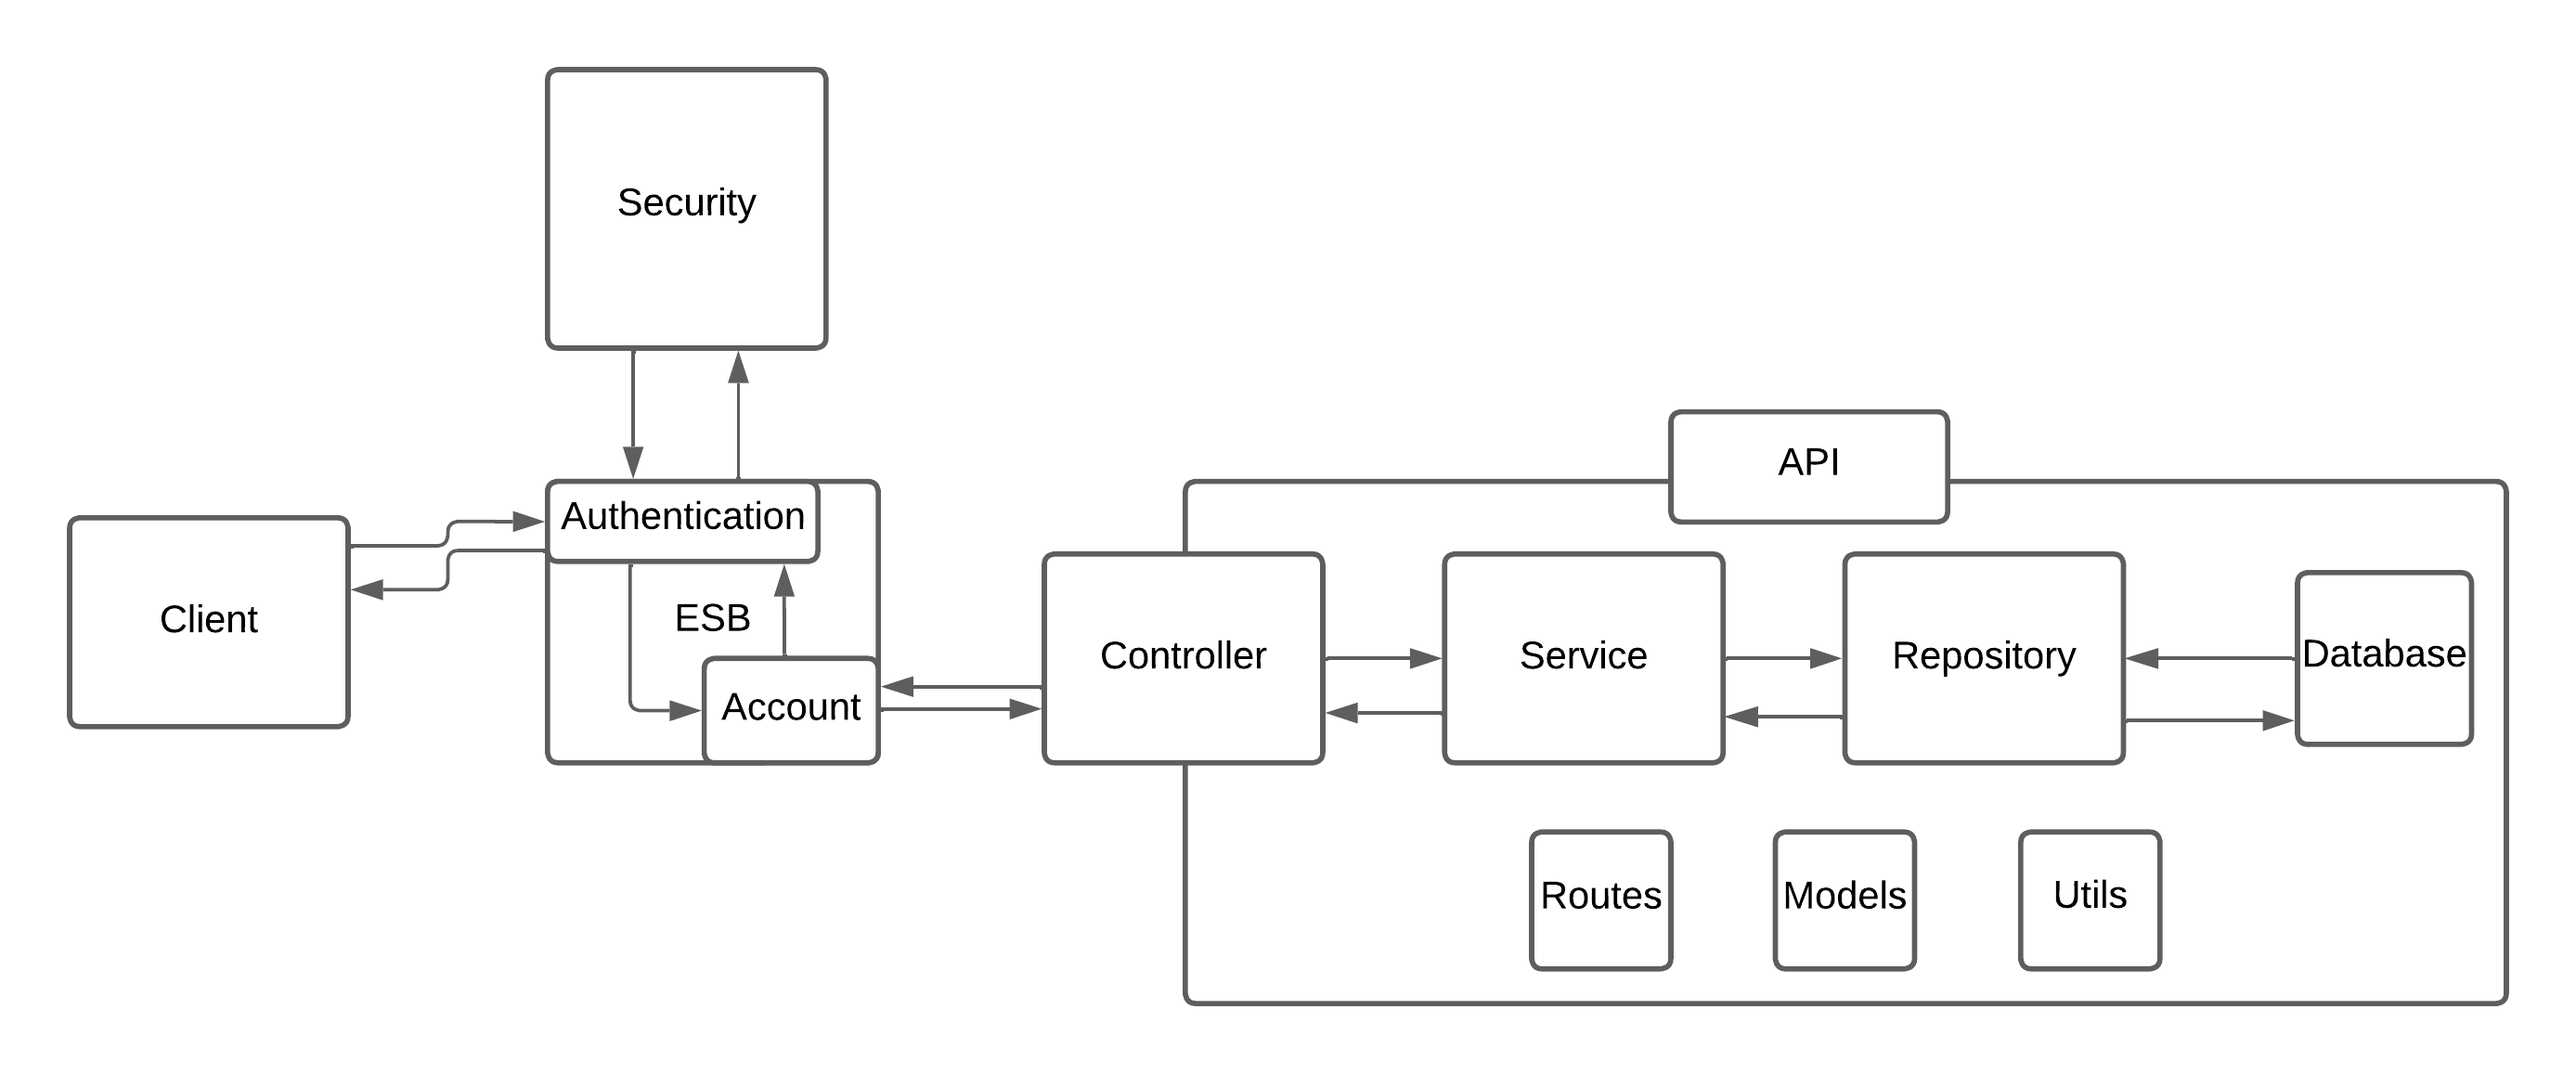
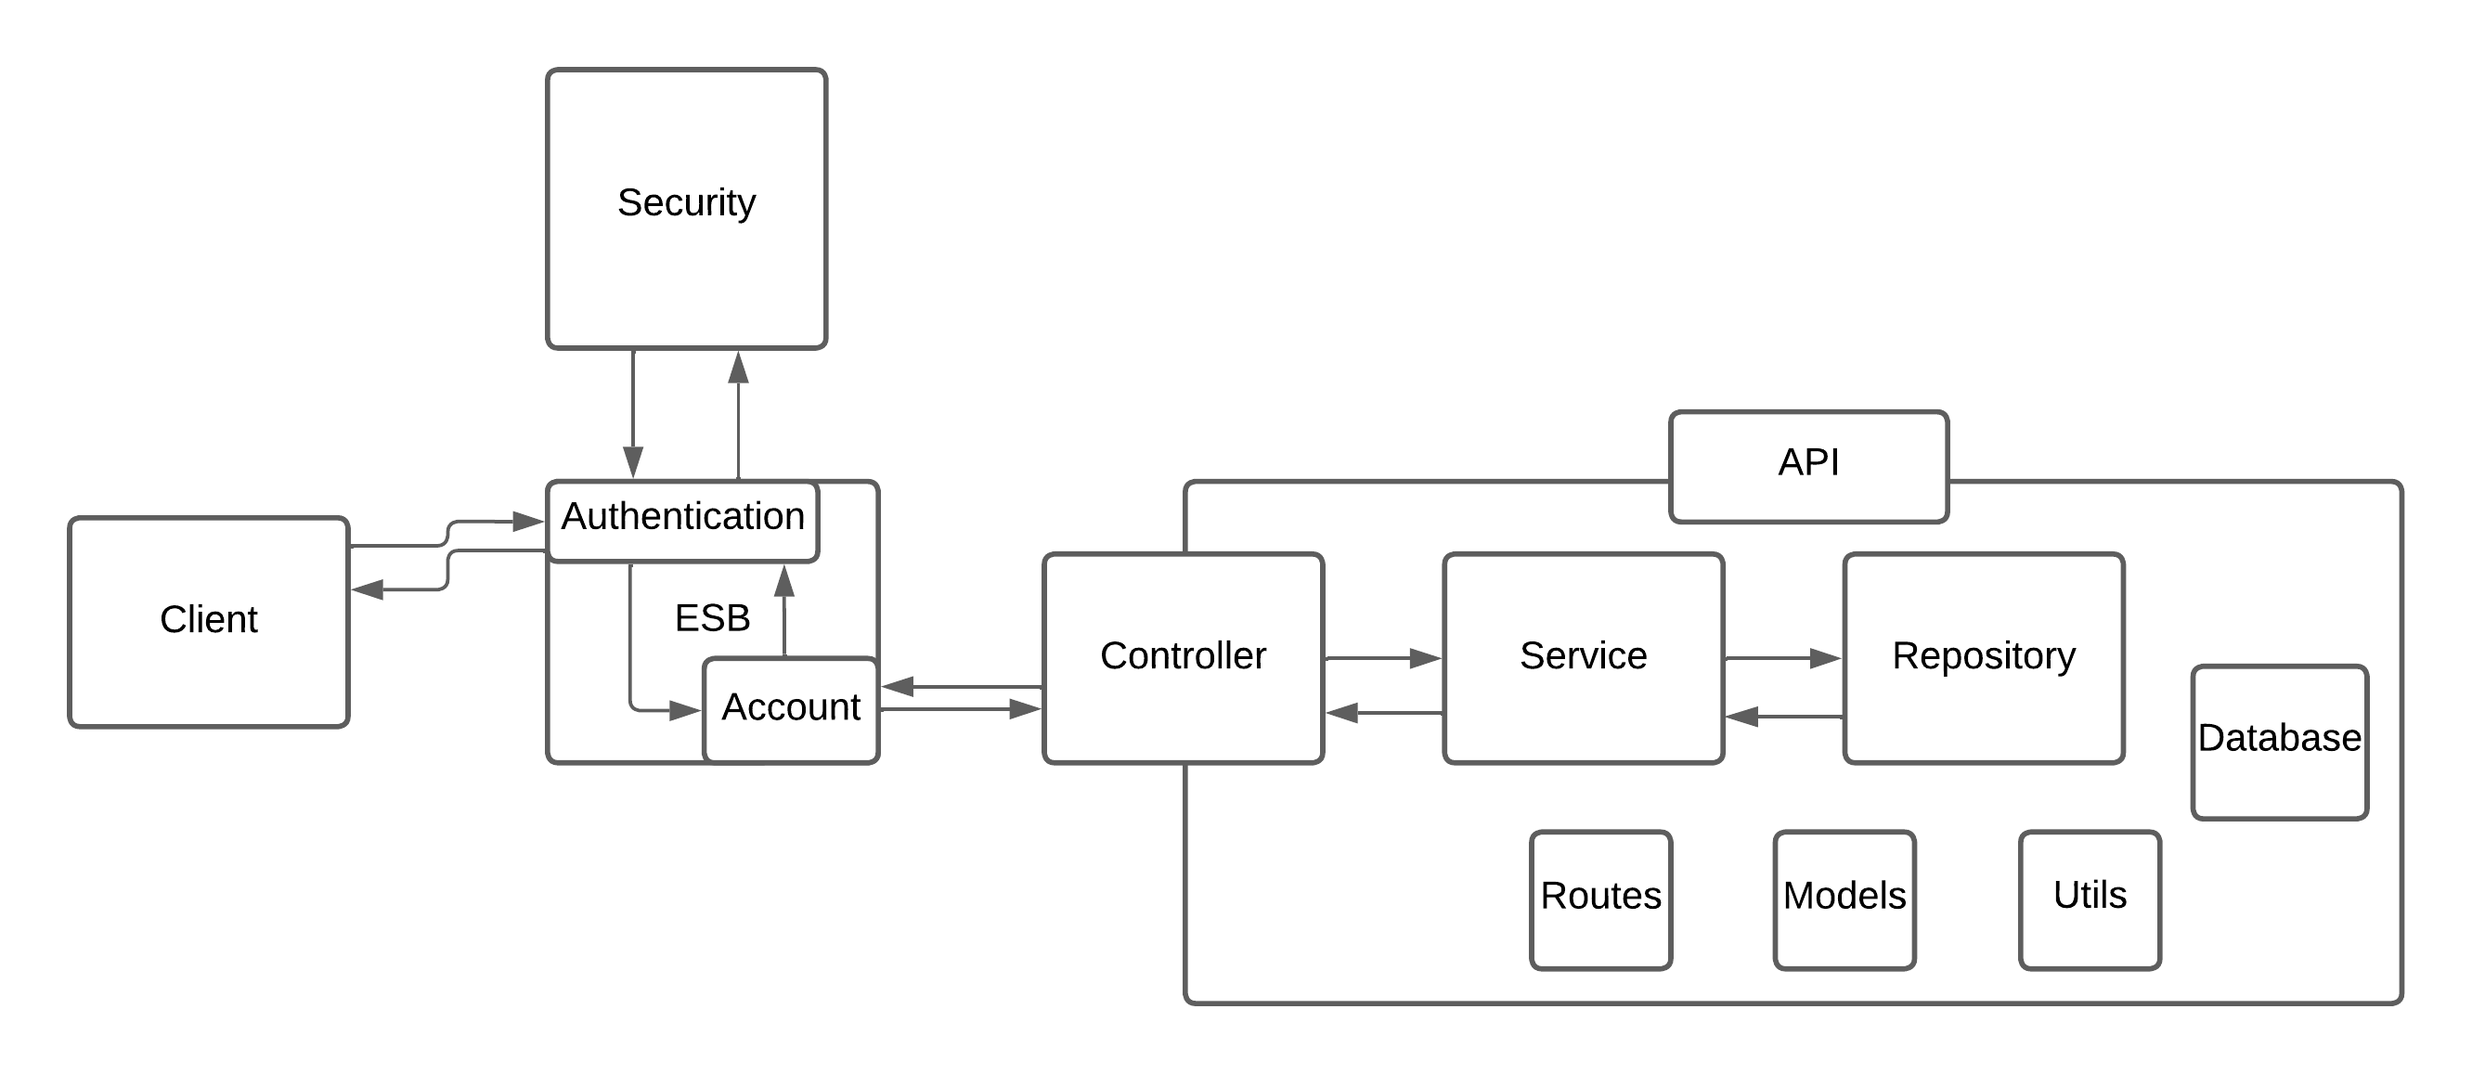
changing architecture

diff --git a/src/repositories/get-account-repository.ts b/src/repositories/get-account-repository.ts
@@ -1,6 +1,19 @@
-import { accountData } from "../database/database"
-import { Account } from "../models/account-model"
+import mongoose from "mongoose";
+import { Account } from "../models/account-model";
 
-export const getAccountRepository = async (): Promise<Account[]> => {
-    return await accountData()
+mongoose.connect("mongodb://localhost:27017/finbridge-api").then(() => {
+    console.log("Database is connected")
+}).catch((error) => console.log(error))
+
+const accountSchema = new mongoose.Schema({
+    name: String,
+    identify: String,
+    balance: Number,
+    fromBank: String
+})
+
+const AccountModel = mongoose.model("accounts", accountSchema)
+
+export const accountData = async (): Promise<Account[]> => {
+    return await AccountModel.find()
 }

diff --git a/src/services/get-account-service.ts b/src/services/get-account-service.ts
@@ -1,6 +1,6 @@
 import { Account } from "../models/account-model"
-import { getAccountRepository } from "../repositories/get-account-repository"
+import { accountData } from "../repositories/get-account-repository"
 
 export const getAccountService = async (): Promise<Account[]> => {
-    return await getAccountRepository()
+    return await accountData()
 }
